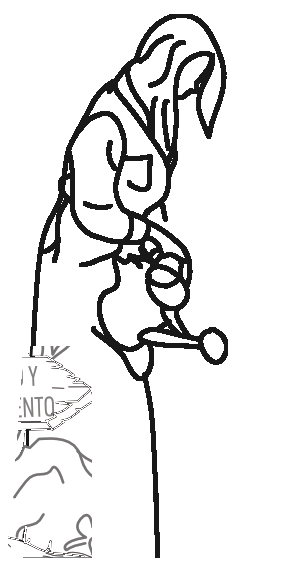
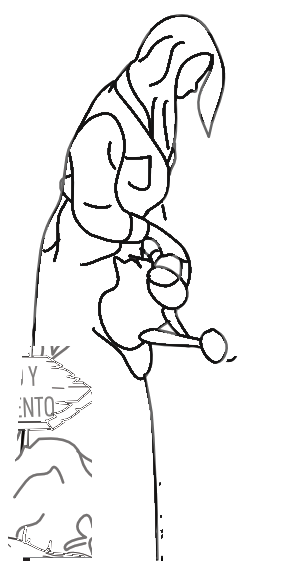
Regadera: se vuelve a la versión anterior y solo se ajusta la velocidad
Claude-Session: https://claude.ai/code/session_01Tckd7FRN1Wj5sD4FJaZp8R

diff --git a/src/App.jsx b/src/App.jsx
@@ -1038,17 +1038,17 @@ export default function App() {
         jardineroTweenRef.current.pause()
       }
 
-      // Chica de la regadera: 1-6 y vuelta 6-1 (12 fotogramas) a 4 fps, con una
+      // Chica de la regadera: 1-6 y vuelta 6-1 (12 fotogramas) a 5 fps, con una
       // pausa muy corta entre vueltas. En reposo, fotograma 0.
       if (regaderaImageRef.current) {
         const sequence = [1, 2, 3, 4, 5, 6, 6, 5, 4, 3, 2, 1]
         const regaderaState = { step: 0 }
         regaderaTweenRef.current = gsap.to(regaderaState, {
           step: sequence.length - 1,
-          duration: (sequence.length - 1) / 4,
+          duration: (sequence.length - 1) / 5,
           ease: `steps(${sequence.length - 1})`,
           repeat: -1,
-          repeatDelay: 0.5,
+          repeatDelay: 0.15,
           paused: true,
           onUpdate: () => {
             if (regaderaImageRef.current) {

diff --git a/CLAUDE.md b/CLAUDE.md
@@ -217,10 +217,6 @@ claro en español.
   Chica de la maceta: pausas cortas (0,6 s arriba, 0,8 s al final).
   "Ajardinamiento" → "Paisajismo" en textos (MITECO, Academia). Copias:
   scratchpad `Casa_before_regadera.png`, `fondo_before_regadera.jpg`.
-- 2026-11-12 (4): regadera: Casa.png original tenía a la chica dibujada dos
-  veces (negra y gris); el reposo pasa a ser su Frame 1 limpio. Líneas de los
-  fotogramas engrosadas (+1 px, casi negras), nada por debajo del borde del
-  forjado, 4 fps con 0,5 s de pausa. Quitadas dos líneas verticales sueltas
-  (una del fondo, x≈3866; otra un path de `edificio_izquierda.svg`).
-  Pendiente: plantas que quedan detrás de ella (hace falta la capa de plantas
-  sin la chica exportada desde Affinity).
+- 2026-11-12 (4): regadera: Sergio prefiere los fotogramas, el fondo y el
+  edificio izquierdo tal como estaban en (3) (sin engrosar líneas ni borrar
+  líneas sueltas). Solo cambia la velocidad: 5 fps y 0,15 s de pausa.
